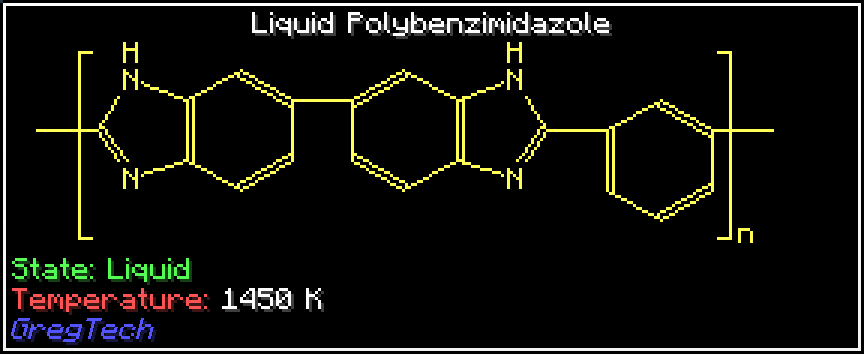
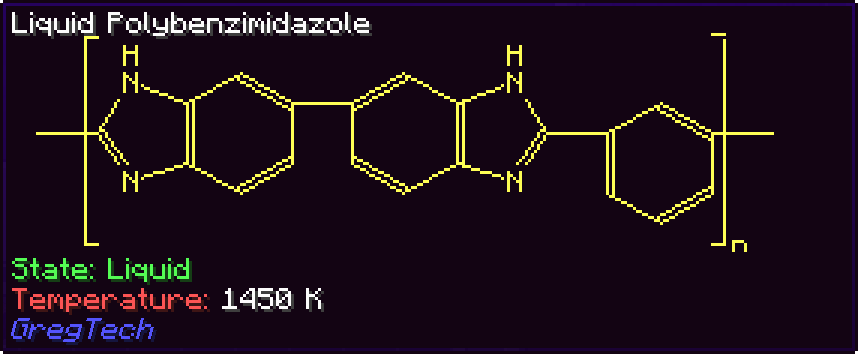
Images for colors

diff --git a/README.md b/README.md
@@ -4,9 +4,11 @@ This clientside only mod adds molecule drawings for organic molecules from GregT
 
 ## Examples
 
-|Polyethylene|Polybenzimidazole|Chloroform|
-|---|---|---|
-|![polyethylene tooltip screenshot](https://raw.githubusercontent.com/RubenVerg/gregtech-molecule-drawings/refs/heads/main/images/polyethylene.png)|![polybenzimidazole tooltip screenshot](https://raw.githubusercontent.com/RubenVerg/gregtech-molecule-drawings/refs/heads/main/images/polybenzimidazole.png)|![chloroform tooltip screenshot](https://raw.githubusercontent.com/RubenVerg/gregtech-molecule-drawings/refs/heads/main/images/chloroform.png)|
+| Color    |Polyethylene| Polybenzimidazole                                                                                                                                                     | Chloroform                                                                                                                                              |
+|----------|---|-----------------------------------------------------------------------------------------------------------------------------------------------------------------------|---------------------------------------------------------------------------------------------------------------------------------------------------------|
+| None     |![polyethylene tooltip screenshot](https://raw.githubusercontent.com/RubenVerg/gregtech-molecule-drawings/refs/heads/main/images/polyethylene.png)| ![polybenzimidazole tooltip screenshot](https://raw.githubusercontent.com/RubenVerg/gregtech-molecule-drawings/refs/heads/main/images/polybenzimidazole.png)          | ![chloroform tooltip screenshot](https://raw.githubusercontent.com/RubenVerg/gregtech-molecule-drawings/refs/heads/main/images/chloroform.png)          |
+| CPK      |![polyethylene tooltip screenshot](https://raw.githubusercontent.com/RubenVerg/gregtech-molecule-drawings/refs/heads/main/images/polyethylene.png)| ![polybenzimidazole tooltip screenshot](https://raw.githubusercontent.com/RubenVerg/gregtech-molecule-drawings/refs/heads/main/images/polybenzimidazole_color.png)    | ![chloroform tooltip screenshot](https://raw.githubusercontent.com/RubenVerg/gregtech-molecule-drawings/refs/heads/main/images/chloroform_color.png)    |
+| Material |![polyethylene tooltip screenshot](https://raw.githubusercontent.com/RubenVerg/gregtech-molecule-drawings/refs/heads/main/images/polyethylene.png)| ![polybenzimidazole tooltip screenshot](https://raw.githubusercontent.com/RubenVerg/gregtech-molecule-drawings/refs/heads/main/images/polybenzimidazole_matcolor.png) | ![chloroform tooltip screenshot](https://raw.githubusercontent.com/RubenVerg/gregtech-molecule-drawings/refs/heads/main/images/chloroform_matcolor.png) |
 
 ## Additional content support
 
@@ -194,8 +196,8 @@ For example, this is the encoding of benzene:
     },
     {
       "type": "bond",
-      "a": 4
-      "b": 5,
+      "a": 4,
+      "b": 5
     },
     {
       "type": "bond",
